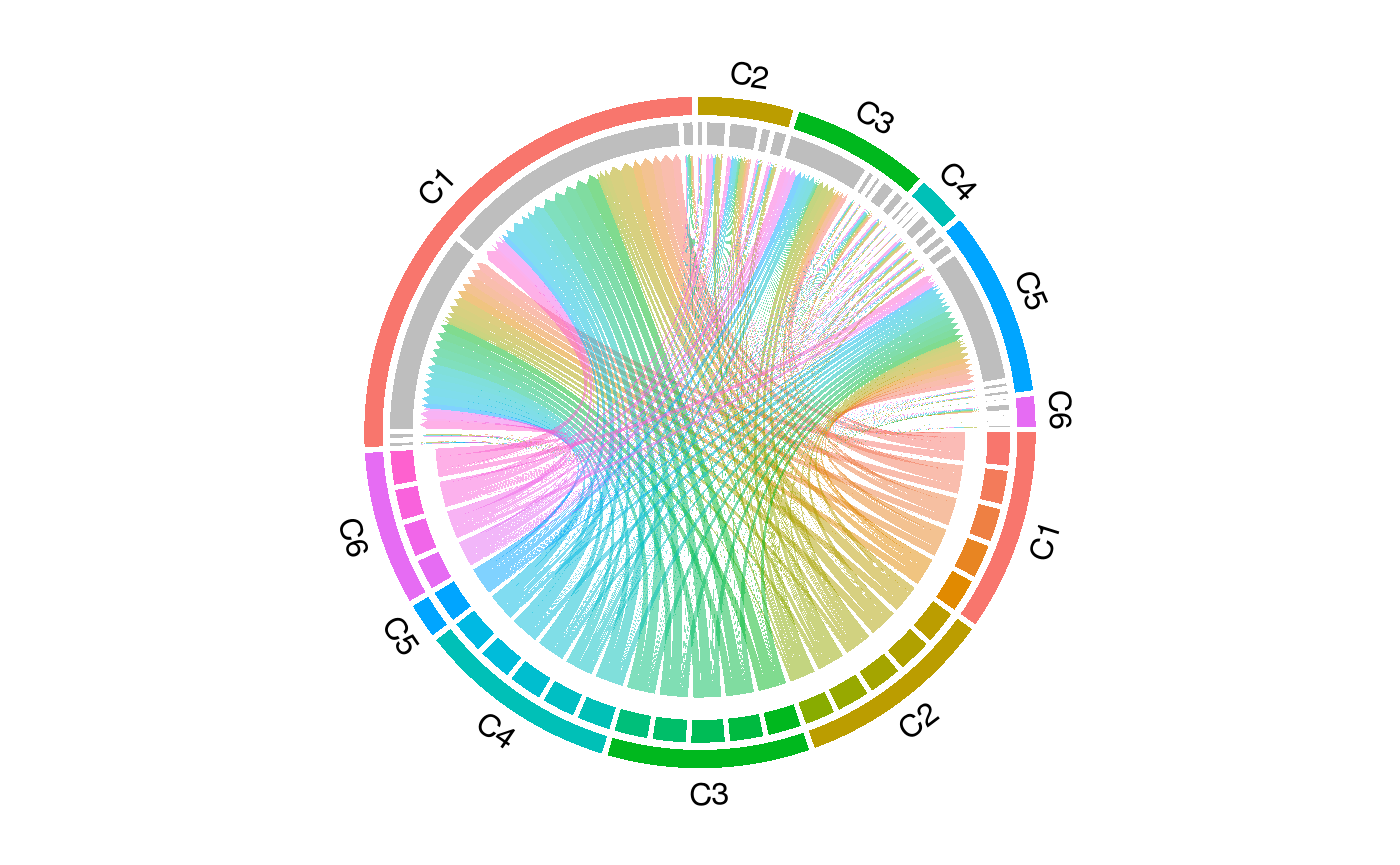
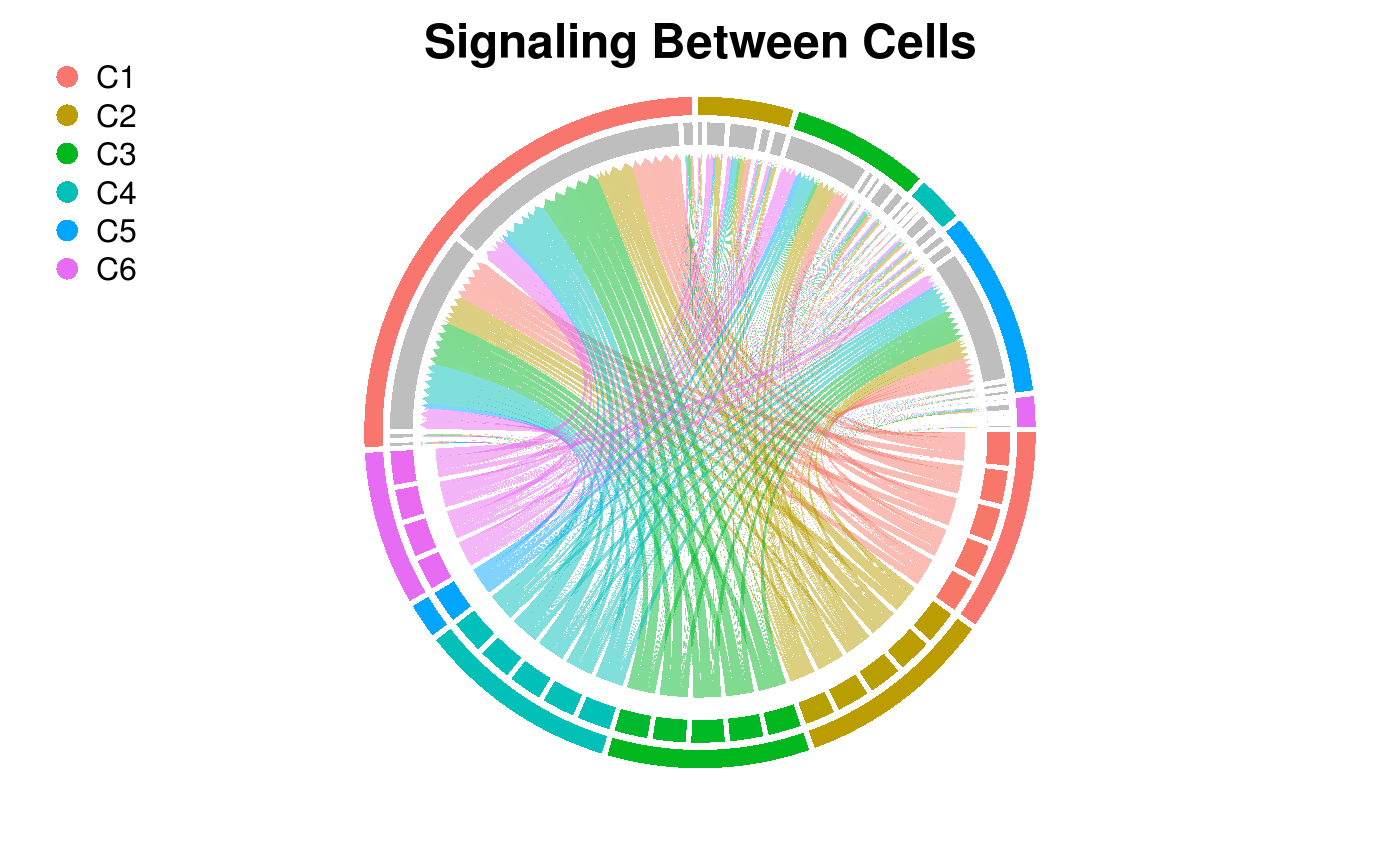
cluster sig dropout

diff --git a/docs/articles/Joost_et_al.html b/docs/articles/Joost_et_al.html
@@ -79,7 +79,7 @@
       <h1>Clustering Pseudotime Inference on Skin Cell scRNA-seq</h1>
                         <h4 class="author">Matt Karikomi</h4>
             
-            <h4 class="date">2019-04-02</h4>
+            <h4 class="date">2019-04-03</h4>
       
       
       <div class="hidden name"><code>Joost_et_al.Rmd</code></div>
@@ -849,7 +849,8 @@ down
 <a class="sourceLine" id="cb24-2" data-line-number="2">        <span class="dt">cluster_labels =</span> labels,</a>
 <a class="sourceLine" id="cb24-3" data-line-number="3">        <span class="dt">lig_cells_per_cluster =</span> <span class="dv">5</span>,</a>
 <a class="sourceLine" id="cb24-4" data-line-number="4">        <span class="dt">rec_cells_per_cluster =</span> <span class="dv">5</span>,</a>
-<a class="sourceLine" id="cb24-5" data-line-number="5">        <span class="dt">rgb_gap =</span> <span class="fl">0.60</span>)</a></code></pre></div>
+<a class="sourceLine" id="cb24-5" data-line-number="5">        <span class="dt">rgb_gap =</span> <span class="fl">0.06</span>,</a>
+<a class="sourceLine" id="cb24-6" data-line-number="6">        <span class="dt">title_text =</span> <span class="st">"Signaling Between Cells"</span>)</a></code></pre></div>
 <p><img src="Joost_et_al_files/figure-html/unnamed-chunk-25-1.png" width="100%" height="100%"></p>
 </div>
 <div id="circos-plot-of-intercluster-network" class="section level3">
@@ -860,7 +861,8 @@ down
 <a class="sourceLine" id="cb25-2" data-line-number="2">                          <span class="dt">cluster_labels =</span> labels)</a>
 <a class="sourceLine" id="cb25-3" data-line-number="3">  <span class="kw"><a href="../reference/SigPlot.html">SigPlot</a></span>(<span class="dt">P =</span> cluster_P,</a>
 <a class="sourceLine" id="cb25-4" data-line-number="4">          <span class="dt">cluster_labels =</span> <span class="kw">c</span>(<span class="dv">1</span><span class="op">:</span>n_clusters),</a>
-<a class="sourceLine" id="cb25-5" data-line-number="5">          <span class="dt">rgb_gap =</span> <span class="fl">0.60</span>)</a></code></pre></div>
+<a class="sourceLine" id="cb25-5" data-line-number="5">          <span class="dt">rgb_gap =</span> <span class="fl">0.60</span>,</a>
+<a class="sourceLine" id="cb25-6" data-line-number="6">          <span class="dt">title_text =</span> <span class="st">"Signaling Between Clusters"</span>)</a></code></pre></div>
 <p><img src="Joost_et_al_files/figure-html/unnamed-chunk-26-1.png" width="100%" height="100%"></p>
 </div>
 <div id="heatmap-of-signaling-marker-expression" class="section level3">

diff --git a/docs/reference/SigPlot.html b/docs/reference/SigPlot.html
@@ -126,7 +126,8 @@
   <span class='kw'>lig_cells_total</span> <span class='kw'>=</span> <span class='fl'>0</span>, <span class='kw'>lig_edge_per_cell</span> <span class='kw'>=</span> <span class='fl'>0</span>,
   <span class='kw'>lig_edge_per_cluster</span> <span class='kw'>=</span> <span class='fl'>0</span>, <span class='kw'>lig_edge_total</span> <span class='kw'>=</span> <span class='fl'>0</span>,
   <span class='kw'>rec_cells_per_cluster</span> <span class='kw'>=</span> <span class='fl'>10</span>, <span class='kw'>rec_cells_total</span> <span class='kw'>=</span> <span class='fl'>0</span>,
-  <span class='kw'>zero_threshold</span> <span class='kw'>=</span> <span class='fl'>0</span>, <span class='kw'>cD_reduce</span> <span class='kw'>=</span> <span class='fl'>0</span>, <span class='kw'>highlight_clusters</span> <span class='kw'>=</span> <span class='fl'>TRUE</span>)</pre>
+  <span class='kw'>zero_threshold</span> <span class='kw'>=</span> <span class='fl'>0</span>, <span class='kw'>cD_reduce</span> <span class='kw'>=</span> <span class='fl'>0</span>, <span class='kw'>highlight_clusters</span> <span class='kw'>=</span> <span class='fl'>TRUE</span>,
+  <span class='kw'>title_text</span> <span class='kw'>=</span> <span class='kw'>NULL</span>)</pre>
     
     <h2 class="hasAnchor" id="arguments"><a class="anchor" href="#arguments"></a>Arguments</h2>
     <table class="ref-arguments">
@@ -182,6 +183,10 @@
     <tr>
       <th>highlight_clusters</th>
       <td><p>whether to label the plot with clusters.  Default is true.</p></td>
+    </tr>
+    <tr>
+      <th>title_text</th>
+      <td><p>the title of the plot</p></td>
     </tr>
     </table>
     

diff --git a/docs/reference/ClusterSig.html b/docs/reference/ClusterSig.html
@@ -122,7 +122,7 @@
     
     </div>
 
-    <pre class="usage"><span class='fu'>ClusterSig</span>(<span class='no'>P</span>, <span class='no'>cluster_labels</span>, <span class='kw'>normalize_ligand_cluster</span> <span class='kw'>=</span> <span class='fl'>TRUE</span>)</pre>
+    <pre class="usage"><span class='fu'>ClusterSig</span>(<span class='no'>P</span>, <span class='no'>cluster_labels</span>)</pre>
     
     <h2 class="hasAnchor" id="arguments"><a class="anchor" href="#arguments"></a>Arguments</h2>
     <table class="ref-arguments">
@@ -134,10 +134,6 @@
     <tr>
       <th>cluster_labels</th>
       <td><p>labels of cells 1:n</p></td>
-    </tr>
-    <tr>
-      <th>normalize_ligand_cluster</th>
-      <td><p>boolean whether or not to show chord size for cluster-cluster pair relative to all the other cluster-cluster signaling pairs for that ligand bearing cluster</p></td>
     </tr>
     </table>
     

diff --git a/docs/reference/ViolinPlotExpression.html b/docs/reference/ViolinPlotExpression.html
@@ -148,6 +148,10 @@
       <th>colorscale</th>
       <td><p>optionally provided color scale</p></td>
     </tr>
+    <tr>
+      <th>jitsize</th>
+      <td><p>the jitter size parameter</p></td>
+    </tr>
     </table>
     
     <h2 class="hasAnchor" id="value"><a class="anchor" href="#value"></a>Value</h2>
